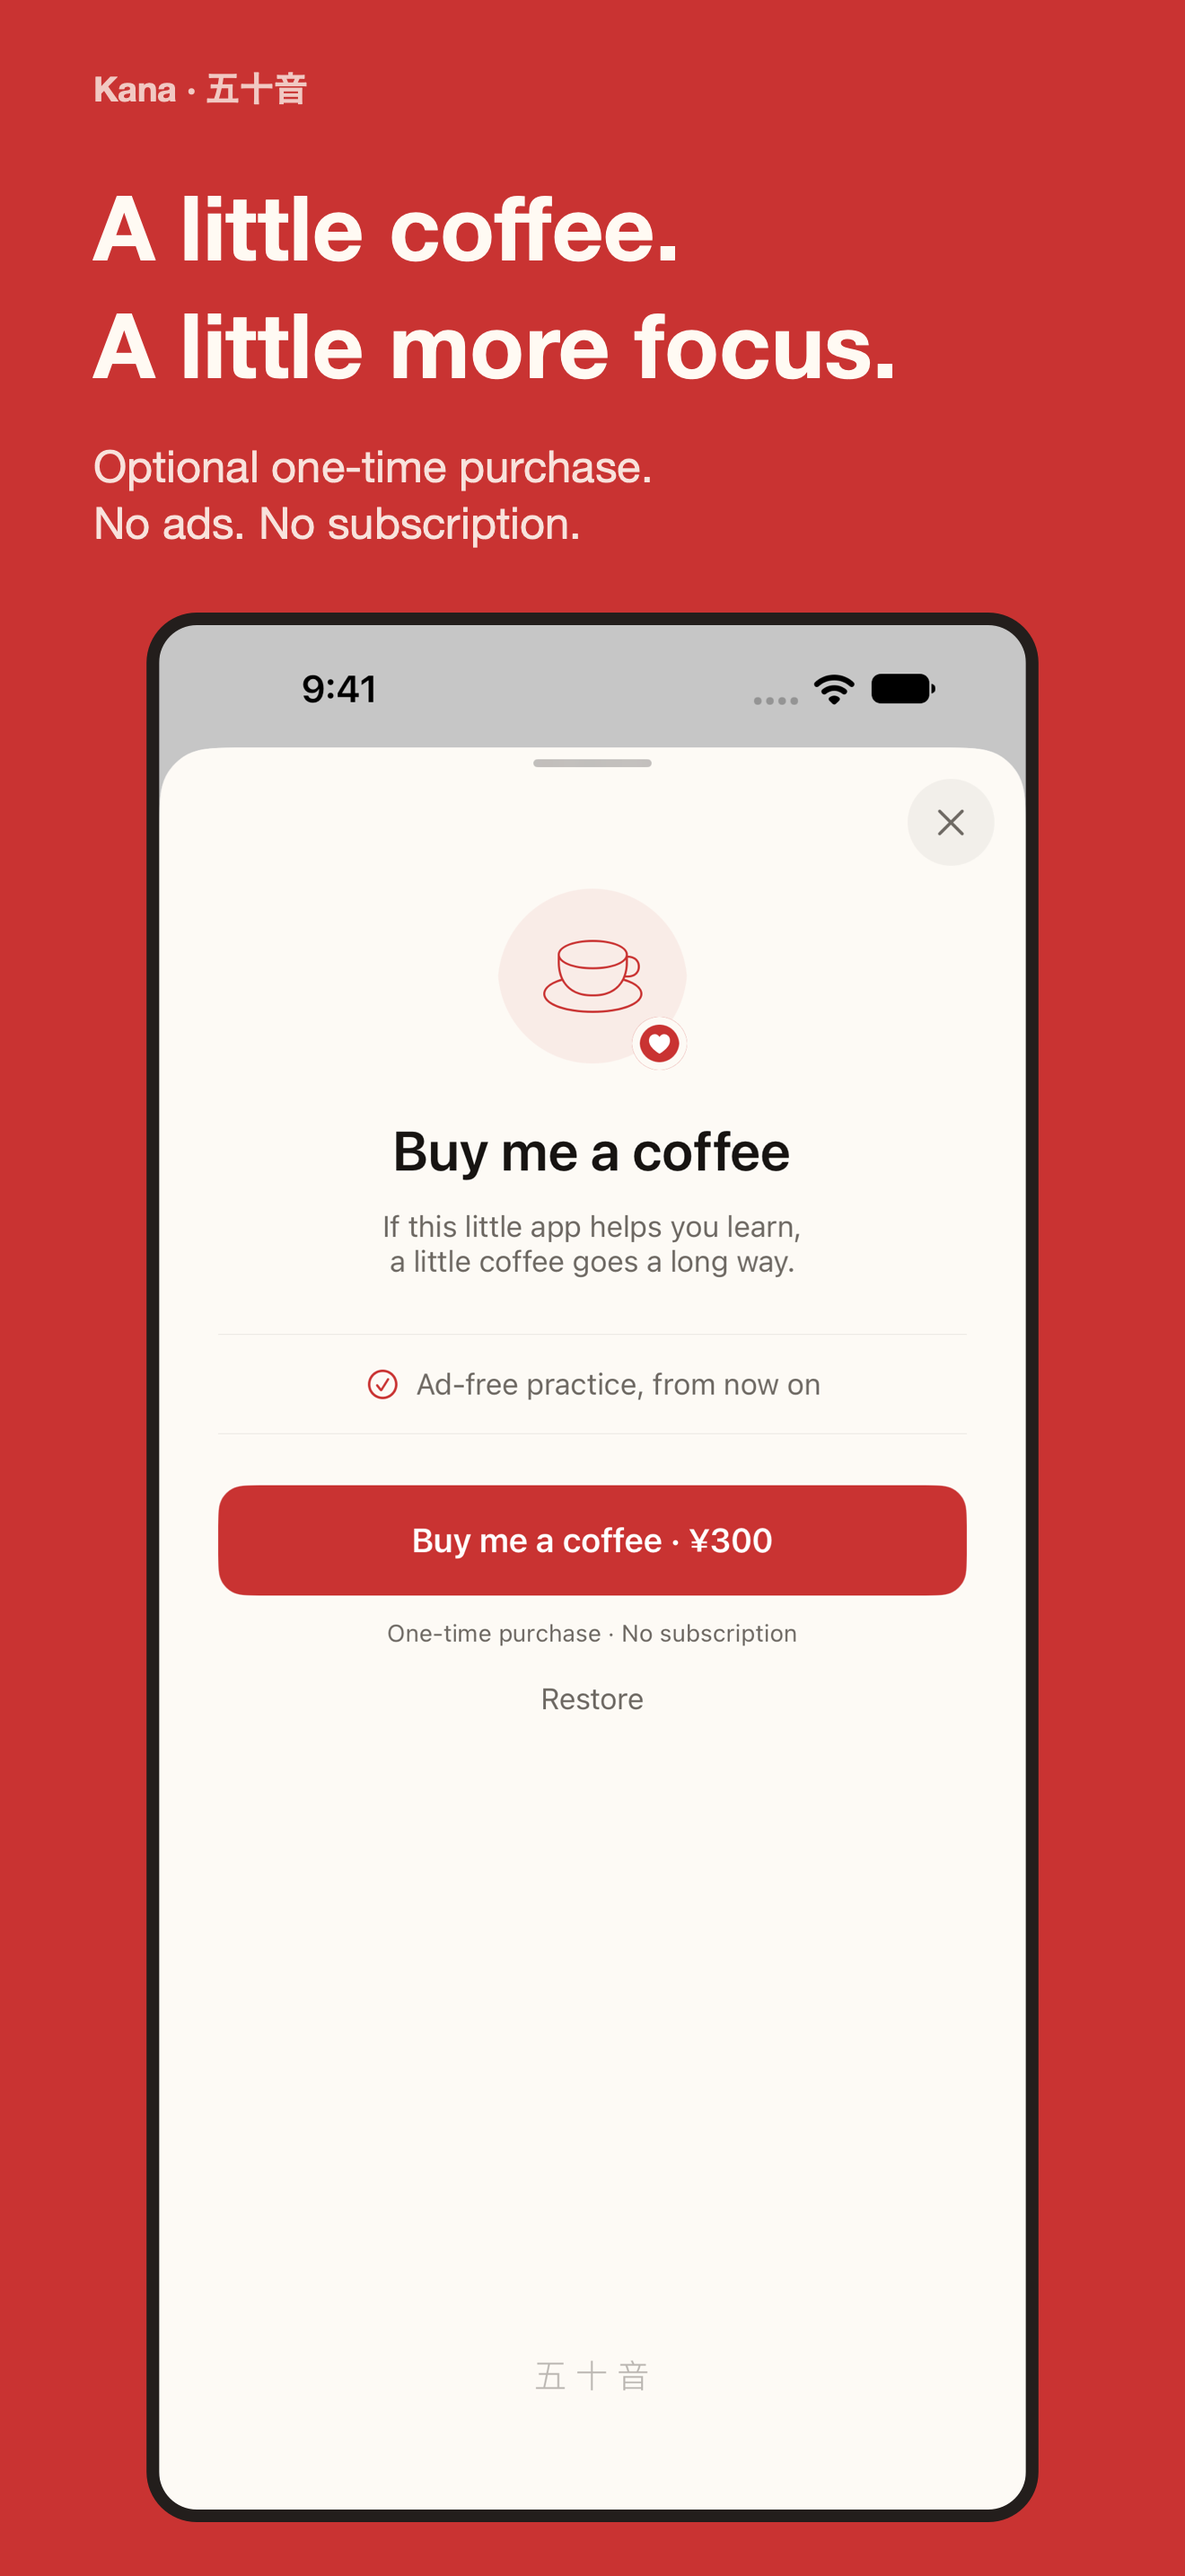
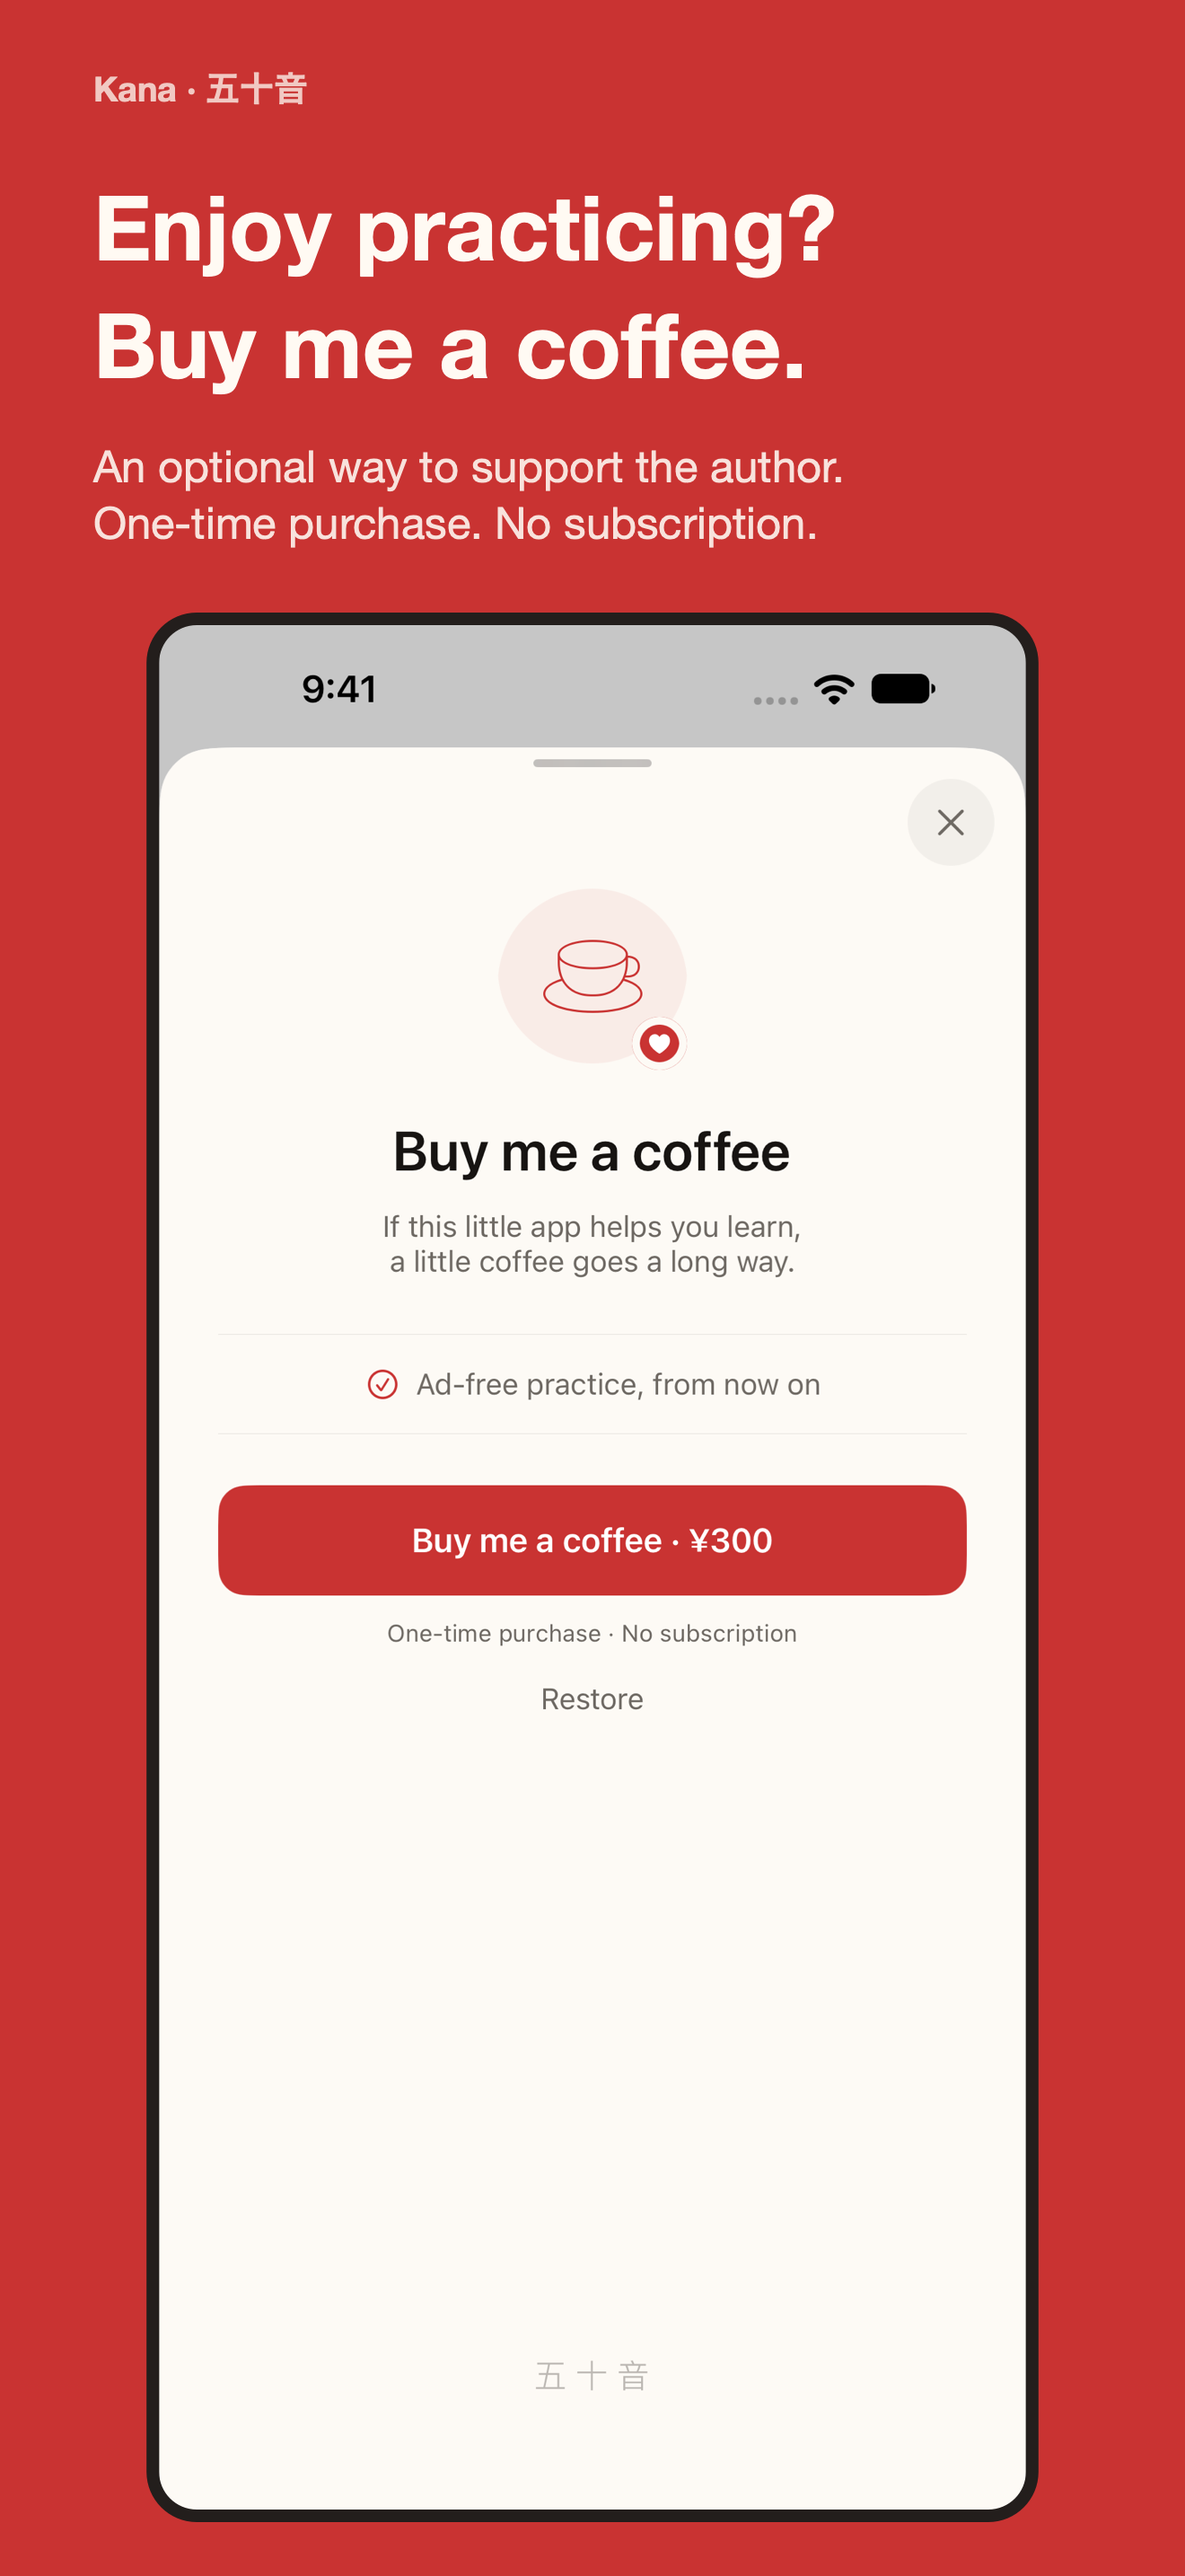
Refine store copy around kana challenges

Changed region(s): [[0.0621, 0.0621, 0.7455, 0.2172]]

diff --git a/store/README.md b/store/README.md
@@ -4,10 +4,18 @@
 screenshot captions for version 1.1.0 in English, Japanese, Simplified Chinese,
 Traditional Chinese, and Korean. The store copy is saved in App Store Connect.
 The `appName` field is the label on the artwork; it does not rename the app.
+The English store name is `Japanese kana - learning`, with the subtitle
+`Challenge yourself`. Both fit the current 30-character limits.
 
 The current release candidate is **1.1.0 (17)**. It contains the practice and
-coffee redesign and fixes unreadable kana chart text in Dark Mode. It is available
-to the internal TestFlight group and selected for the App Store version.
+coffee redesign and fixes unreadable kana chart text in Dark Mode. TestFlight
+acceptance is complete. On September 27, 2026, the app and its first coffee
+purchase were submitted together and reached `WAITING_FOR_REVIEW`. The release
+setting is automatic release after approval.
+
+The store copy focuses on timed questions and the best correct-answer streak.
+It explains that ads appear only after an incorrect answer or a timeout. Coffee
+support is presented as an optional way to support the author.
 
 ## Screenshots
 
@@ -64,5 +72,10 @@ descriptions, promotional text, and release notes match `metadata.json`.
 The kana chart fix was checked on iPhone in Light and Dark Mode, and on iPad in
 Dark Mode. All three capture tests passed and produced complete result bundles.
 
-Before submitting, confirm purchases and restore on a physical device, complete
-the App Privacy labels, and include the first coffee purchase with the app version.
+App Privacy labels are published. The final descriptions, promotional text, and
+release notes were read back from App Store Connect and match `metadata.json`.
+The ten updated coffee images passed layout, dimension, and opacity checks.
+All 40 screenshots have the expected checksums and order and report `COMPLETE`.
+
+[App Review submission](https://appstoreconnect.apple.com/apps/1195345471/distribution/reviewsubmissions/details/85c4f677-85ad-4bfe-a944-ca6a7ec9a0f4)
+contains both version 1.1.0 (17) and `com.salmonapps.app.kana.coffee`.
